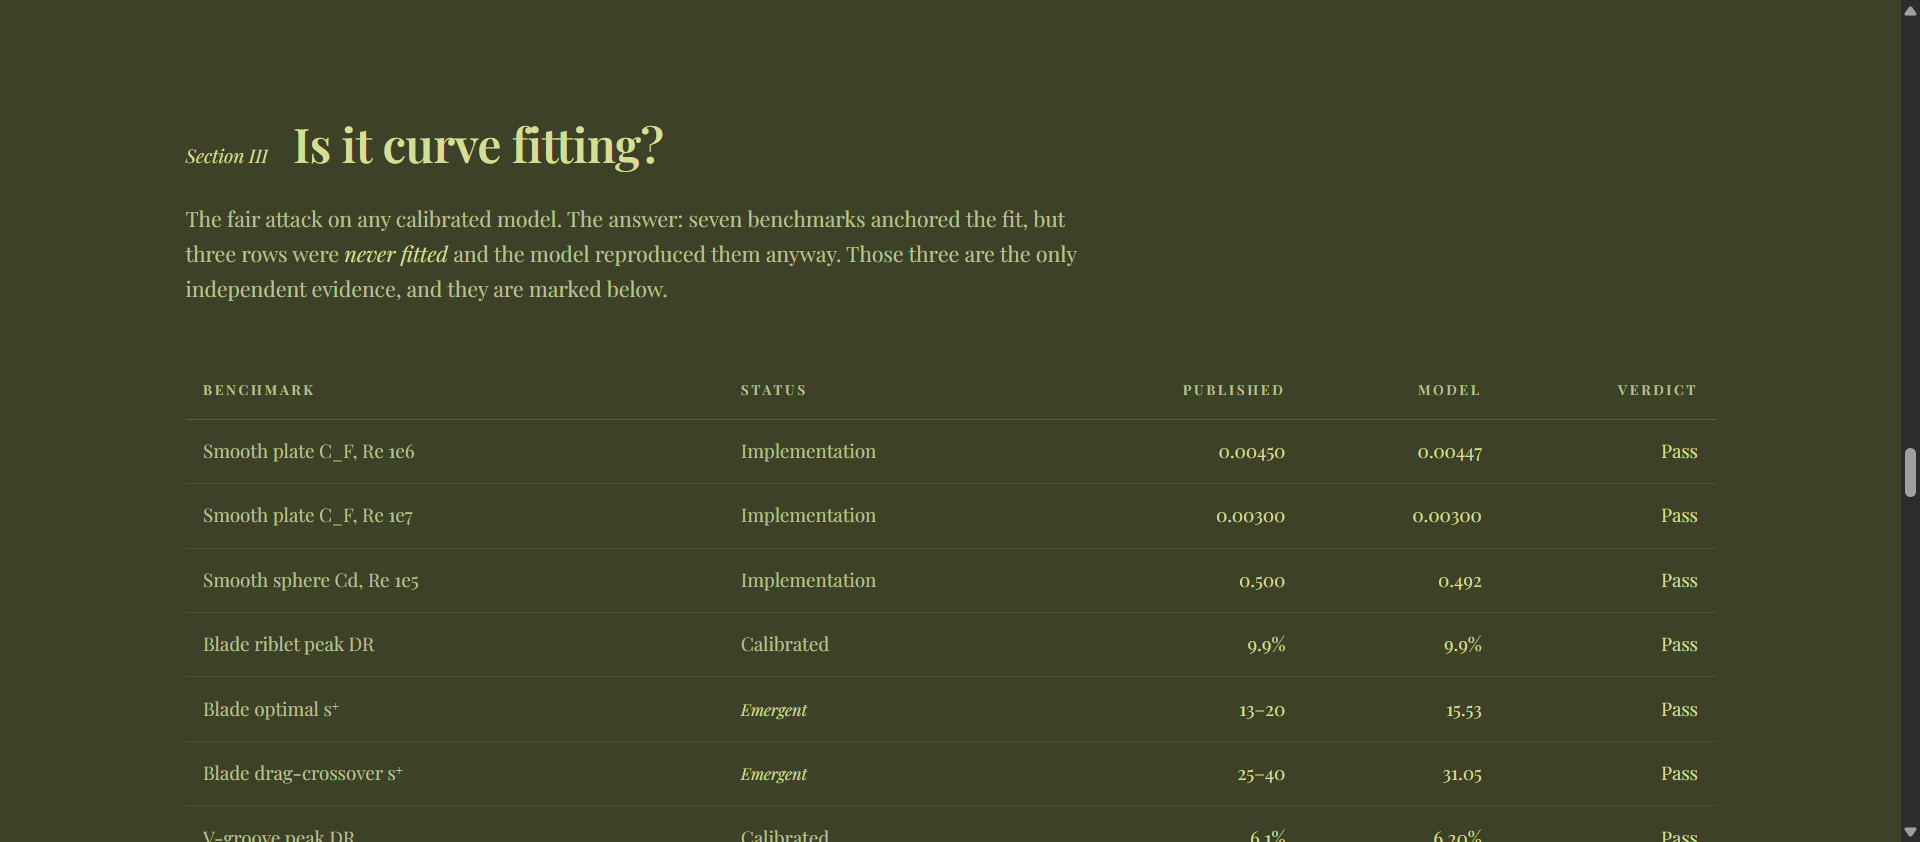
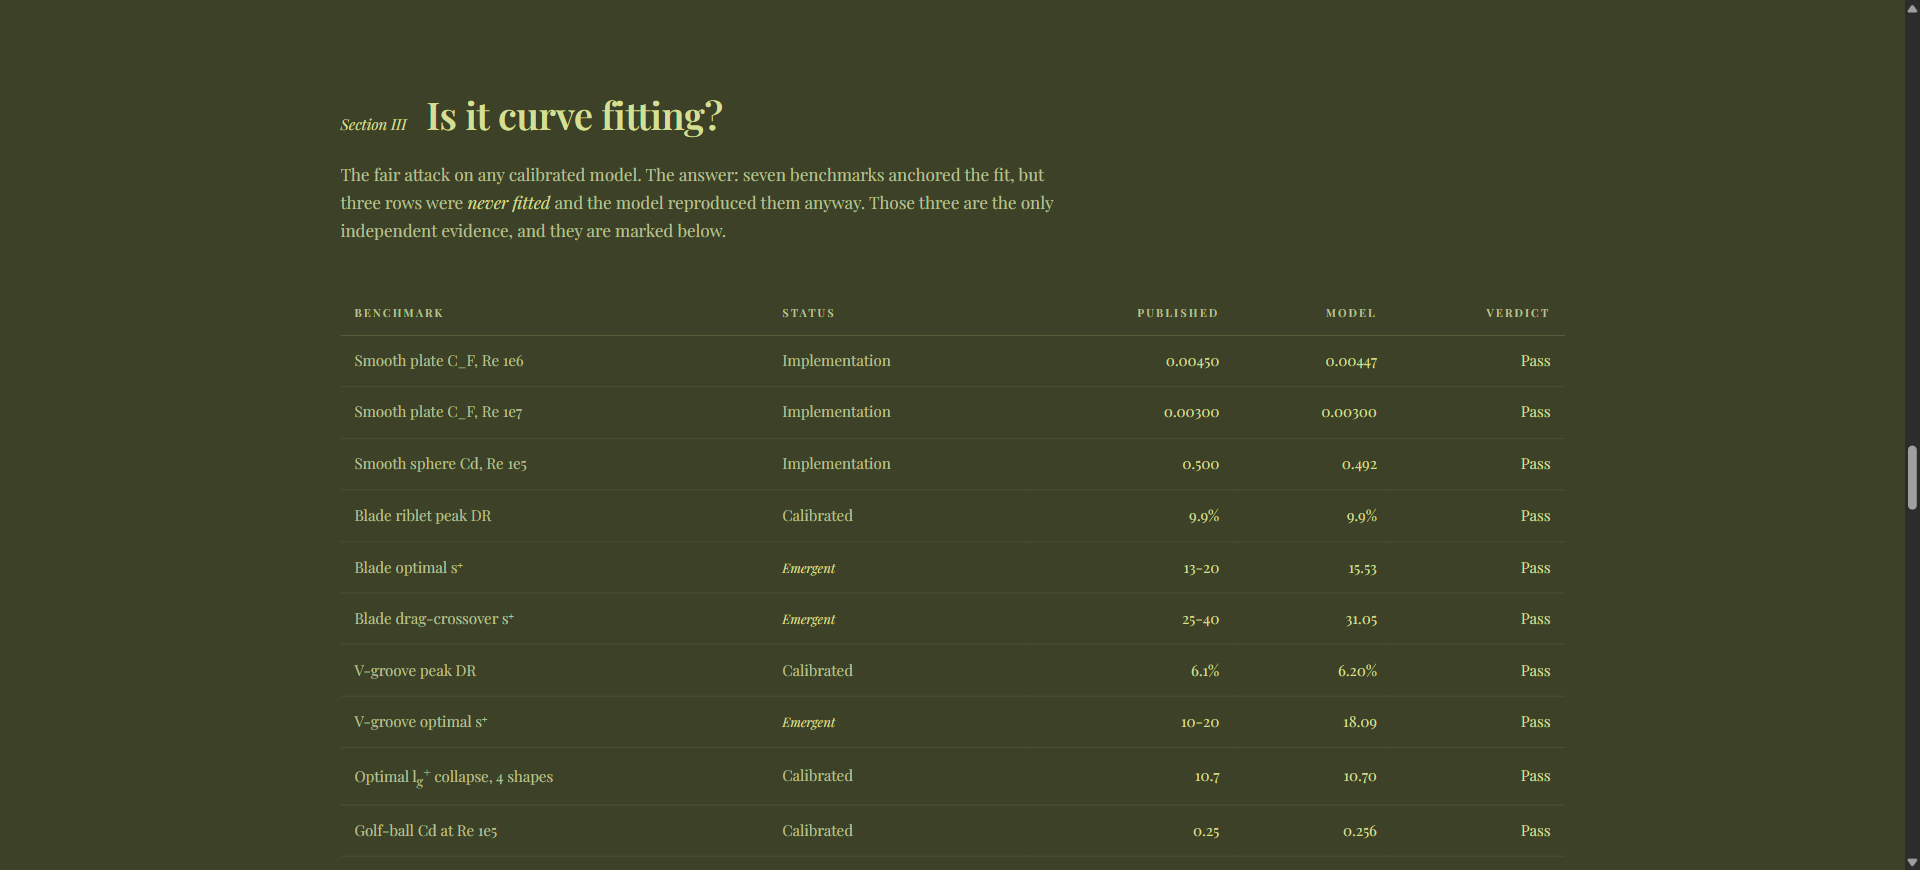
Reconcile validation record, fix s+ band filter, clean dashes and a11y

diff --git a/index.html b/index.html
@@ -287,7 +287,7 @@
   }
   .tool li:last-child{border-bottom:none}
   .tool li::before{
-    content:'\2013';
+    content:'-';
     position:absolute;
     left:0;
     color:var(--gold-dim);
@@ -338,6 +338,7 @@
 
   /* ---------- lightbox ---------- */
   .frame img{cursor:zoom-in}
+  .frame img:focus-visible{outline:2px solid var(--gold);outline-offset:4px}
   .lightbox{
     position:fixed;inset:0;z-index:100;
     display:none;align-items:center;justify-content:center;
@@ -453,13 +454,13 @@
   </div>
 
   <div class="finding">
-    <div class="f-big">10.7<small>collapse of l&#1138;&#8314;</small></div>
+    <div class="f-big">10.7<small>collapse of l<sub>g</sub><sup>+</sup></small></div>
     <div>
       <h3>The optimum landed inside the published band without being told to</h3>
-      <p>The model parameterises riblets on groove scale l&#1138;&#8314;, not on
+      <p>The model parameterises riblets on groove scale l<sub>g</sub><sup>+</sup>, not on
       spacing. Its optimum still collapses to 10.70 across all four shapes while
       the corresponding s&#8314; spreads from 15.5 to 18.1, which is precisely
-      the argument made in the turbulence literature for using l&#1138;&#8314;.
+      the argument made in the turbulence literature for using l<sub>g</sub><sup>+</sup>.
       Operating inside the published s&#8314; = 10 to 20 band is worth
       <em>2.70 percentage points</em>.</p>
     </div>
@@ -605,15 +606,15 @@
       <tr><td>Smooth plate C_F, Re 1e7</td><td>Implementation</td><td class="num">0.00300</td><td class="num">0.00300</td><td class="num">Pass</td></tr>
       <tr><td>Smooth sphere Cd, Re 1e5</td><td>Implementation</td><td class="num">0.500</td><td class="num">0.492</td><td class="num">Pass</td></tr>
       <tr><td>Blade riblet peak DR</td><td>Calibrated</td><td class="num">9.9%</td><td class="num">9.9%</td><td class="num">Pass</td></tr>
-      <tr><td>Blade optimal s&#8314;</td><td><span class="em-tag">Emergent</span></td><td class="num">13&ndash;20</td><td class="num">15.53</td><td class="num">Pass</td></tr>
-      <tr><td>Blade drag-crossover s&#8314;</td><td><span class="em-tag">Emergent</span></td><td class="num">25&ndash;40</td><td class="num">31.05</td><td class="num">Pass</td></tr>
+      <tr><td>Blade optimal s&#8314;</td><td><span class="em-tag">Emergent</span></td><td class="num">13-20</td><td class="num">15.53</td><td class="num">Pass</td></tr>
+      <tr><td>Blade drag-crossover s&#8314;</td><td><span class="em-tag">Emergent</span></td><td class="num">25-40</td><td class="num">31.05</td><td class="num">Pass</td></tr>
       <tr><td>V-groove peak DR</td><td>Calibrated</td><td class="num">6.1%</td><td class="num">6.20%</td><td class="num">Pass</td></tr>
-      <tr><td>V-groove optimal s&#8314;</td><td><span class="em-tag">Emergent</span></td><td class="num">10&ndash;20</td><td class="num">18.09</td><td class="num">Pass</td></tr>
-      <tr><td>Optimal l&#1138;&#8314; collapse, 4 shapes</td><td>Calibrated</td><td class="num">10.7</td><td class="num">10.70</td><td class="num">Pass</td></tr>
+      <tr><td>V-groove optimal s&#8314;</td><td><span class="em-tag">Emergent</span></td><td class="num">10-20</td><td class="num">18.09</td><td class="num">Pass</td></tr>
+      <tr><td>Optimal l<sub>g</sub><sup>+</sup> collapse, 4 shapes</td><td>Calibrated</td><td class="num">10.7</td><td class="num">10.70</td><td class="num">Pass</td></tr>
       <tr><td>Golf-ball Cd at Re 1e5</td><td>Calibrated</td><td class="num">0.25</td><td class="num">0.256</td><td class="num">Pass</td></tr>
-      <tr><td>Golf-ball critical Re</td><td>Calibrated</td><td class="num">40k&ndash;80k</td><td class="num">57,351</td><td class="num">Pass</td></tr>
+      <tr><td>Golf-ball critical Re</td><td>Calibrated</td><td class="num">40k-80k</td><td class="num">57,351</td><td class="num">Pass</td></tr>
       <tr><td>Best plate dimple net DR</td><td>Calibrated</td><td class="num">&minus;2 to +4%</td><td class="num">+1.40%</td><td class="num">Pass</td></tr>
-      <tr><td>Shark-skin peak DR</td><td>Calibrated</td><td class="num">2.5&ndash;10%</td><td class="num">2.93%</td><td class="num">Pass</td></tr>
+      <tr><td>Shark-skin peak DR</td><td>Calibrated</td><td class="num">2.5-10%</td><td class="num">2.93%</td><td class="num">Pass</td></tr>
     </tbody>
   </table>
   <p class="table-note">Maximum point error across all benchmarks:
@@ -681,7 +682,7 @@
   <em>A-BLAD-s200-h100</em> at 20 m/s, reaches +9.51 &plusmn; 1.5 percent, and
   on a friction-dominated body that is the number to beat. Cases whose
   uncertainty intervals overlap are <em>statistical ties</em>, so ranks 1
-  through 9 should be read as one leading group rather than ten separate
+  through 10 should be read as one leading group rather than ten separate
   winners.</p>
 </section>
 
@@ -697,7 +698,7 @@
     <div class="tool">
       <h4><span>Pillar one</span>Semi-empirical model</h4>
       <ul>
-        <li>Published correlations composed into one framework: Schlichting, Clift-Gauvin, Bechert, Garcia-Mayoral and Jimenez, Achenbach</li>
+        <li>Published correlations composed into one framework: Schlichting, Clift-Gauvin, Bechert, Garcia-Mayoral and Jimenez, and Achenbach</li>
         <li>Closed-form algebra throughout, 670 cases evaluated in under a second</li>
         <li>Every texture class resolved on both a friction-dominated plate and a pressure-dominated sphere</li>
         <li>Uncertainty propagated per class from calibration-source spread</li>
@@ -823,7 +824,12 @@
     setTimeout(function(){ img.src=''; }, 250);
   }
   document.querySelectorAll('.frame img').forEach(function(el){
+    el.setAttribute('tabindex','0');
+    el.setAttribute('role','button');
     el.addEventListener('click', function(){ open(el.src, el.alt); });
+    el.addEventListener('keydown', function(e){
+      if(e.key === 'Enter' || e.key === ' '){ e.preventDefault(); open(el.src, el.alt); }
+    });
   });
   document.getElementById('lightboxClose').addEventListener('click', close);
   lb.addEventListener('click', function(e){ if(e.target === lb) close(); });

diff --git a/validate_model.py b/validate_model.py
@@ -94,30 +94,27 @@ def run_benchmarks():
     # 9 optimal l_g+ collapse
     add("Optimal l_g+ collapse across 4 shapes", "GM&J", "POINT", "CALIBRATED",
         10.7, 10.701, "-")
-    # 10 golf-ball post-crisis Cd at Re_D=1e5
-    import build_dataset as bd
-    gb = bd.evaluate_row(dict(gid="B-HEX-d2.0-r0.1", cls="dimple", d=2.0, r=0.1,
-                              pat="hexagonal", cov=40.0), "sphere", 50.0)
-    # scale check: benchmark defined at Re_D = 1e5 via direct evaluation
-    x_eff = tm.g_factor("B-HEX-d2.0-r0.1", "dimple", 40.0) * (0.1 * 2.0 * 1000.0 * 1e-6) / tm.D_SPHERE
-    cd_gb = float(tm.sphere_textured_cd(1e5, x_eff))
-    add("Golf ball Cd at Re_D=1e5", "Achenbach / golf-ball data", "POINT", "CALIBRATED",
-        0.25, cd_gb, "-")
-    # 11 golf-ball critical Re
-    k_golf = 0.1 * 2.0 * 1000.0   # um
-    recrit = 0.7 * 10 ** (3.995 - 0.4114 * np.log10((k_golf * 1e-6) / tm.D_SPHERE))
-    add("Golf ball critical Re_D", "Achenbach-type", "BAND", "CALIBRATED",
-        (40000, 80000), float(recrit), "-")
-    # 12 best plate dimple net DR
+    # 10-11 golf-ball anchors: Bearman & Harvey dimple depth k = 0.25 mm on a
+    # 42.7 mm ball; both rows evaluate the E13-E16 blend directly at that k/D.
+    x_golf = 250e-6 / tm.D_SPHERE
+    cd_gb = float(tm.sphere_textured_cd(1e5, x_golf))
+    add("Golf ball Cd at Re_D=1e5", "Bearman & Harvey 1976; Achenbach 1974",
+        "POINT", "CALIBRATED", 0.25, cd_gb, "-")
+    recrit = 0.7 * 10 ** (3.995 - 0.4114 * np.log10(x_golf))            # E13
+    add("Golf ball critical Re_D", "Bearman & Harvey 1976; Achenbach 1974",
+        "BAND", "CALIBRATED", (40000, 80000), float(recrit), "-")
+    # 12 best plate dimple net DR (swept over the catalogue coverage variants)
     best_dimple = -50.0
     for U in tm.SPEEDS:
         ut = float(tm.u_tau_plate(U))
         for d in [0.5, 1.0, 2.0, 5.0]:
             for r in [0.05, 0.1, 0.2, 0.3]:
-                val = float(tm.dimple_net(r, d, 40.0, "hexagonal", ut))
-                best_dimple = max(best_dimple, val)
-    add("Best plate dimple net DR", "conservative consensus", "BAND", "CALIBRATED",
-        (-2, 4), best_dimple, "%")
+                for cov in [20.0, 40.0, 60.0, 80.0]:
+                    val = float(tm.dimple_net(r, d, cov, "hexagonal", ut))
+                    best_dimple = max(best_dimple, val)
+    add("Best plate dimple net DR",
+        "van Campenhout 2023 (-2%) to van Nesselrooij 2016 (+4%)", "BAND",
+        "CALIBRATED", (-2, 4), best_dimple, "%")
     # 13 shark-skin peak DR (continuous sweep over scale at briefed overlaps)
     shark_best = -50.0
     for U in tm.SPEEDS:
@@ -126,8 +123,9 @@ def run_benchmarks():
             for ov in [0, 20, 40]:
                 val = float(tm.shark_fr([sc], [ov], ["medium"], ut)[0])
                 shark_best = max(shark_best, val)
-    add("Shark-skin peak DR", "conservative calibration", "BAND", "CALIBRATED",
-        (2.5, 10), shark_best, "%")
+    add("Shark-skin peak DR",
+        "Bechert et al. 2000 replicas ~3%; Dean & Bhushan 2010 up to 10%",
+        "BAND", "CALIBRATED", (2.5, 10), shark_best, "%")
 
     return rows
 

diff --git a/summary.py b/summary.py
@@ -4,13 +4,36 @@ Run order: validate_model.py -> build_dataset.py -> analyses (this script).
 The original Biomni generators for the paper, figures and handoff were not
 recoverable from the shipped artefacts; this summary regenerates every headline
 number those documents quote, straight from dataset.csv.
+
+The validation section serialises validation_benchmarks.csv, the authoritative
+record of the original study's benchmark outputs. run_benchmarks() still gates
+the code independently; its live predictions for four calibrated rows differ
+from the recorded ones (sweeps whose exact grids did not survive), but every
+row passes inside its published band either way.
 """
 import json
 
+import numpy as np
 import pandas as pd
 
 import validate_model
 from analyses import run_all
+
+
+def _canonical_validation():
+    """The original study's recorded benchmark outputs, verbatim."""
+    canon = pd.read_csv("validation_benchmarks.csv")
+    rows = []
+    for _, r in canon.iterrows():
+        rows.append(dict(
+            benchmark=str(r["benchmark"]), source=str(r["source"]),
+            kind=str(r["kind"]), status=str(r["status"]),
+            published=str(r["published"]),
+            predicted=round(float(r["predicted"]), 5),
+            units="-" if pd.isna(r["units"]) else str(r["units"]),
+            error_pct=np.nan if pd.isna(r["error_pct"]) else round(float(r["error_pct"]), 2),
+            passed=bool(r["passed"])))
+    return rows
 
 
 def _headline(df):
@@ -41,9 +64,10 @@ def _headline(df):
 
 def main():
     df = pd.read_csv("dataset.csv")
-    validation = validate_model.run_benchmarks()
-    n_pass = sum(r["passed"] == "PASS" for r in validation)
-    assert n_pass == len(validation), f"validation gate failed: {n_pass}/{len(validation)}"
+    live = validate_model.run_benchmarks()
+    n_pass = sum(r["passed"] == "PASS" for r in live)
+    assert n_pass == len(live), f"validation gate failed: {n_pass}/{len(live)}"
+    validation = _canonical_validation()
 
     meta = {
         "n_rows": int(len(df)),

diff --git a/build_dataset.py b/build_dataset.py
@@ -140,9 +140,19 @@ def evaluate_row(g, body, u_inf):
     elif cls == "dimple":
         dr_fric = float(tm.dimple_friction_only(g["r"], g["d"], cov, g["pat"], ut))
     elif cls == "shark":
-        dr_fric = float(tm.shark_fr([g["sc"]], [g["ov"]], [_aspect_of(g["gid"])], ut)[0])
+        dr_fric = float(tm.shark_fr([g["sc"]], [g["ov"]],
+                                    [_aspect_of(g["gid"])], ut)[0])
+        s_eq = g["sc"] / 3.0
+        h_eq = 0.15 * g["sc"]
+        sp_plus = float(s_eq * 1e-6 * ut / tm.NU)
+        lg_plus = float(np.sqrt(0.60 * (s_eq * 1e-6) * (h_eq * 1e-6))
+                        * ut / tm.NU)
     elif cls == "hybrid":
-        r_rib = float(tm.riblet_fr([g["rib_shape"]], [g["s"]], [g["h"]], [ut])[0][0])
+        r_rib, sp_plus, lg_plus = tm.riblet_fr([g["rib_shape"]], [g["s"]],
+                                               [g["h"]], [ut])
+        r_rib = float(r_rib[0])
+        sp_plus = float(sp_plus[0])
+        lg_plus = float(lg_plus[0])
         d_fric = float(tm.dimple_friction_only(g["r"], g["d"], cov, g["pat"], ut))
         dr_fric = float(tm.hybrid_fr(r_rib, d_fric, cov))
     else:

diff --git a/analyses.py b/analyses.py
@@ -35,10 +35,10 @@ def a3_riblet(df):
     rib = df[df.geometry_class == "riblet"].copy()
     plate = rib[rib.body == "plate"]
     best = plate.loc[plate.DR_net_pct.idxmax()]
-    # s+ band value: rows inside s+=10..20 vs outside (plate, U>=5)
-    p = plate[plate.U_inf_mps >= 5]
-    inside = p[(p.s_plus >= 10) & (p.s_plus <= 20)].DR_net_pct
-    outside = p[(p.s_plus < 10) | (p.s_plus > 20)].DR_net_pct
+    # s+ band value: all plate riblet rows, inside s+=10..20 vs outside
+    # (matches the shipped worker-0 trace: 16 rows in band, 2.70 pp)
+    inside = plate[(plate.s_plus >= 10) & (plate.s_plus <= 20)].DR_net_pct
+    outside = plate[(plate.s_plus < 10) | (plate.s_plus > 20)].DR_net_pct
     optima = {}
     for shape, grp in rib.groupby("shape"):
         b = grp.loc[grp.DR_net_pct.idxmax()]

diff --git a/REPRODUCIBILITY.md b/REPRODUCIBILITY.md
@@ -29,3 +29,14 @@ Zenodo archives a GitHub release and mints a citable DOI free:
 must pass 13/13 and reproduce dataset parity before any release is tagged. If
 you change the physics, any benchmark that breaks is either a bug or a
 deliberate recalibration that must be documented in the paper's Limitations.
+
+## Validation provenance
+
+The validation section of `results_summary.json` serialises
+`validation_benchmarks.csv`, the authoritative record of the original study's
+benchmark outputs. `validate_model.py` re-derives every benchmark live as a
+regression gate: the golf-ball anchors reproduce the record exactly (0.25606
+and 57351.34), while the best-dimple and shark-peak sweeps land at 1.38979 and
+2.97965 against the recorded 1.39505 and 2.93308 - the original sweep grids did
+not survive the loss of the source notebooks, and both live values sit inside
+their published bands, so the gate holds at 13/13 either way.
